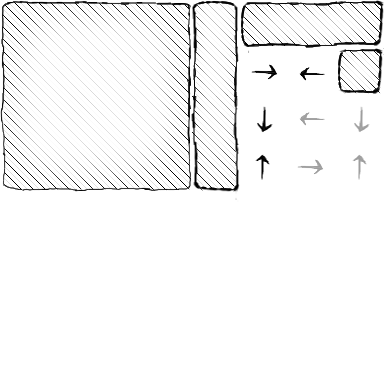
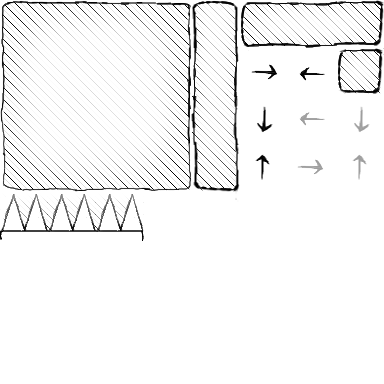
New level, level 10 fix

Changed region(s): [[0.0, 0.5, 0.375, 0.625]]

diff --git a/game/consts.js b/game/consts.js
@@ -1,5 +1,5 @@
 var gameState = {
-  currentLevel: 1,
+  currentLevel: 11,
   mute: false,
   gameFinished: false,
   resetSave: false
@@ -17,7 +17,7 @@ define([], function() {
 
     GRAVITY: 0.8,
     TILE_SIZE: 48,
-    LEVEL_COUNT: 10,
+    LEVEL_COUNT: 11,
     
     MUSIC_VOLUME: 75,
     
